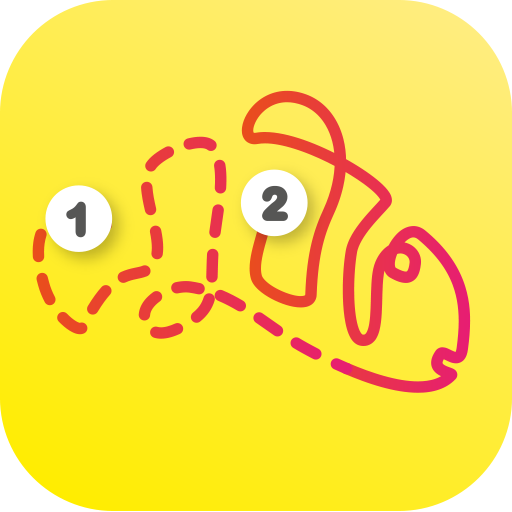
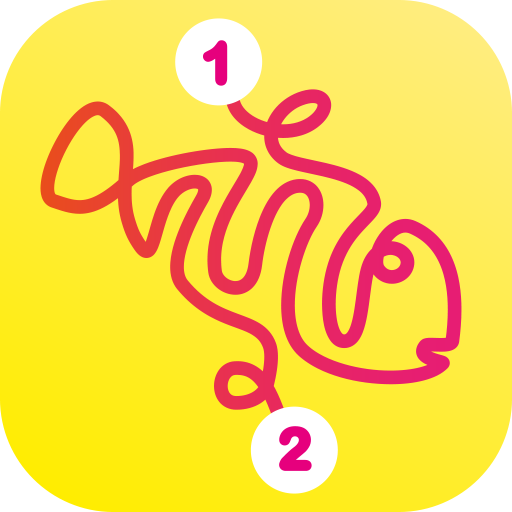
a

diff --git a/index.html b/index.html
@@ -60,30 +60,53 @@
 	<div id="settings"> 
 		<div class="logo">
 			<svg version="1.1" xmlns="http://www.w3.org/2000/svg" xmlns:xlink="http://www.w3.org/1999/xlink" x="0px" y="0px" width="203.5px"
-				 height="144.5px" viewBox="0 0 203.5 144.5" enable-background="new 0 0 203.5 144.5" xml:space="preserve">
-				<path fill="none" stroke="#E71D73" stroke-width="5" stroke-linecap="round" stroke-linejoin="round" d="M37.897,63.231c-1.075,0.956-2.772,0.963-4.791,0.487"/>
-				<path fill="none" stroke="#E71D73" stroke-width="5" stroke-linecap="round" stroke-linejoin="round" stroke-dasharray="9.8857,9.8857" d="
-							M23.852,60.266c-4.285-1.711-8.288-2.935-10.169-0.831c-7.546,8.437-6.221,18.862-3.274,29.667
-							c3.636,13.333,15.651,22.429,17.383,18.882c14.317-29.338,23.68-20.619,29.587-26.146c9.852-9.217-6.716-32.578,0.133-44.643
-							c3.501-6.167,22.867-14.428,27.271-8.712c7.659,9.942,1.146,31.12,0.181,46.812c-0.879,14.284,1.095,22.479-8.113,29.132
-							c-6.398,4.623-18.331,11-21.665,1c-2.867-8.601,11.384-16.256,19.861-14.993c20.591,3.067,32.417,16.892,50.157,26.734
-							c2.446,1.357,5.814,3.167,9.761,5.107"/>
-				<path fill="none" stroke="#E71D73" stroke-width="5" stroke-linecap="round" stroke-linejoin="round" d="M139.43,124.404
-							c1.475,0.681,3.002,1.363,4.568,2.034"/>
-				<path fill="none" stroke="#E71D73" stroke-width="5" stroke-linecap="round" stroke-linejoin="round" stroke-miterlimit="10" d="
-						M143.998,126.438c16.29,6.98,36.813,12.761,46.128,2.929c1.263-1.333-10.525-1.297-4.876-9.367c1.75-2.5,8.5,6.438,9.672-2.361
-						c2.274-17.081,1.789-33.871-17.878-50.204c-8.368-6.949-18.433,13.372-12.667,16.667c7,4,9.157,1.708,9.812-4.129
-						c0.771-6.88-10.275-11.411-15.274,0.354c-3.87,9.108,1.433,35.063-8.317,33.563c-6.701-1.031-6.72-26.539-4.553-39.122
-						c1.416-8.224,11.306-17.277,15-21.666c4.696-5.578-38.001-31.667-56.667-28.334c-10.364,1.851-0.303-24.927,21-17
-						c14.333,5.333,21.334,26,10.667,49.333c-3.806,8.324-7.151,17.659-7.818,36.659c-0.278,7.926-22.047-0.658-24.047-7.658
-						c-2.466-8.63,5.114-22.339,5.364-32.839"/>
-				<path fill="#FFFFFF" d="M126.679,51.859c0,7.832-6.352,14.186-14.188,14.186c-7.834,0-14.188-6.354-14.188-14.186
-						c0-7.838,6.354-14.189,14.188-14.189C120.327,37.669,126.679,44.021,126.679,51.859z"/>
-				<path fill="#FFFFFF" stroke="#FFFFFF" stroke-miterlimit="10" d="M12.158,58.825c0-7.833,6.354-14.186,14.189-14.186
-						c7.834,0,14.186,6.354,14.186,14.186c0,7.838-6.352,14.19-14.186,14.19C18.512,73.015,12.158,66.663,12.158,58.825z"/>
+				 height="216px" viewBox="0 0 203.5 216" enable-background="new 0 0 203.5 216" xml:space="preserve">
+				<linearGradient id="SVGID_1_" gradientUnits="userSpaceOnUse" x1="7.0869" y1="110.3096" x2="192.6055" y2="110.3096">
+					<stop  offset="0" style="stop-color:#E94E1B"/>
+					<stop  offset="0.0232" style="stop-color:#E94C1E"/>
+					<stop  offset="0.3097" style="stop-color:#E83843"/>
+					<stop  offset="0.5768" style="stop-color:#E7295D"/>
+					<stop  offset="0.8149" style="stop-color:#E7206D"/>
+					<stop  offset="1" style="stop-color:#E71D73"/>
+				</linearGradient>
+				<path fill="none" stroke="url(#SVGID_1_)" stroke-width="6" stroke-linecap="round" stroke-linejoin="round" stroke-miterlimit="10" d="
+					M113.842,182.958c-5.396-15.777-9.839-26.161-21.092-25.458c-8,0.5-8.729,15.333,0.646,15.333c7.148,0,12.429-3.504,13.604-8.333
+					c1.703-6.993,2.349-13.394,1.008-17.03c-4.917-13.333-22.397-7.303-38.351-26.674C62.5,112.104,73.03,91.997,78.25,83
+					c5.232-9.019-6.25-10.167-12.546-3.067c-9.137,10.303-8.021,33.548-14.781,23.615c-2.575-3.784-3.638-6.002-5.118-10.954
+					c-5.715-19.136,7.15-35.292-10.381-48.515c-11.25-8.485-33.137,36.265-22.5,39.765c10.013,3.295,16.25,6.25,32.881-9.037
+					c7.275-6.687,36.132-11.97,47.221-11.264c20.696,1.318-13.139,21.123-9.005,51.457c1.041,7.637,15.825,12.5,17.729-3.167
+					c1.628-13.398,7.583-34.666,19.794-34.646c7.512,0.013,9.263,9.674,4.783,16.275c-8.222,12.117-16.318,44.613-3.402,56.381
+					c15,13.666,52.186,15.332,61.5,5.5c0.792-0.836-12.685-1.747-7.685-7.747c1.128-1.354,11.441,1.154,11.878-2.13
+					c2.273-17.081,2.144-41.337-17.479-50.004c-9.949-4.395-18.82,12.876-15.202,18.444c3.869,5.955,12.215,3.458,12.869-2.379
+					c0.771-6.88-11.799-11.481-16.797,0.283c-3.871,9.108-2.085,35.282-11.835,33.782c-6.701-1.031-7.702-20.232-3.452-33.482
+					c5.616-17.508,18.395-21.872,17.416-27.524c-1.508-8.702-11.993-12.218-22.088-14.563c-7.759-1.804-15.286-2.916-18.328-5.162
+					c-10.187-7.519-3.475-21.754,7.75-25.999c11.286-4.269,14.286,3.731,5.952,10.065c-11.463,8.712-31.952,2.601-35.285-8.263"/>
+				<path fill="#FFFFFF" stroke="#FFFFFF" stroke-miterlimit="10" d="M66.96,22.546c0-10.295,8.353-18.647,18.652-18.647
+					c10.299,0,18.649,8.353,18.649,18.647c0,10.303-8.351,18.651-18.649,18.651C75.312,41.197,66.96,32.849,66.96,22.546z"/>
+				<path fill="#E6007E" stroke="#E6007E" stroke-width="2" stroke-miterlimit="10" d="M85.083,30.067v-10.91
+					c-2.031,1.559-3.397,2.338-4.101,2.338c-0.336,0-0.634-0.134-0.893-0.402c-0.26-0.268-0.39-0.577-0.39-0.929
+					c0-0.407,0.127-0.707,0.383-0.899c0.256-0.191,0.708-0.439,1.355-0.743c0.967-0.456,1.74-0.936,2.32-1.438
+					c0.58-0.504,1.093-1.067,1.541-1.69c0.448-0.624,0.739-1.008,0.875-1.151c0.136-0.144,0.392-0.216,0.767-0.216
+					c0.424,0,0.764,0.164,1.02,0.491c0.255,0.328,0.383,0.779,0.383,1.355V29.6c0,1.606-0.547,2.41-1.643,2.41
+					c-0.487,0-0.879-0.164-1.175-0.491C85.23,31.19,85.083,30.707,85.083,30.067z"/>
+				<path fill="#FFFFFF" stroke="#FFFFFF" stroke-miterlimit="10" d="M137.602,193.645c0,10.295-8.349,18.647-18.648,18.647
+					c-10.299,0-18.65-8.353-18.65-18.647c0-10.303,8.352-18.651,18.65-18.651C129.253,174.993,137.602,183.342,137.602,193.645z"/>
+				<path fill="#E6007E" stroke="#E6007E" stroke-width="2" stroke-miterlimit="10" d="M117.382,198.974h6.258
+					c0.624,0,1.1,0.128,1.427,0.383c0.328,0.256,0.492,0.604,0.492,1.044c0,0.392-0.13,0.723-0.39,0.995
+					c-0.26,0.271-0.653,0.407-1.182,0.407h-8.823c-0.6,0-1.068-0.166-1.403-0.498c-0.336-0.331-0.503-0.721-0.503-1.169
+					c0-0.287,0.107-0.669,0.323-1.145s0.451-0.85,0.707-1.121c1.063-1.103,2.022-2.048,2.878-2.836
+					c0.854-0.787,1.467-1.305,1.834-1.552c0.655-0.464,1.201-0.93,1.637-1.397s0.768-0.947,0.995-1.438s0.342-0.973,0.342-1.444
+					c0-0.512-0.122-0.97-0.366-1.373c-0.243-0.403-0.575-0.718-0.995-0.941c-0.419-0.224-0.877-0.336-1.372-0.336
+					c-1.048,0-1.871,0.46-2.47,1.379c-0.08,0.12-0.215,0.448-0.402,0.983s-0.399,0.947-0.636,1.235
+					c-0.235,0.287-0.581,0.431-1.037,0.431c-0.399,0-0.73-0.132-0.994-0.396s-0.396-0.623-0.396-1.079
+					c0-0.551,0.124-1.127,0.372-1.727c0.247-0.599,0.618-1.143,1.108-1.63c0.492-0.487,1.115-0.882,1.871-1.182
+					c0.755-0.299,1.641-0.449,2.655-0.449c1.224,0,2.267,0.191,3.13,0.575c0.56,0.256,1.051,0.607,1.475,1.056
+					c0.424,0.447,0.753,0.965,0.989,1.553c0.235,0.587,0.354,1.196,0.354,1.828c0,0.991-0.246,1.893-0.737,2.703
+					c-0.492,0.812-0.993,1.447-1.505,1.907c-0.512,0.459-1.369,1.181-2.571,2.164c-1.203,0.982-2.028,1.746-2.477,2.29
+					C117.777,198.41,117.581,198.67,117.382,198.974z"/>
 			</svg>
 		</div> 
-		<div class="logo-lite lite">
+		<!--<div class="logo-lite lite">
 			<svg version="1.1" id="Layer_1" xmlns="http://www.w3.org/2000/svg" xmlns:xlink="http://www.w3.org/1999/xlink" x="0px" y="0px"
 				 width="20.333px" height="10.167px" viewBox="0 0 20.333 10.167" enable-background="new 0 0 20.333 10.167" xml:space="preserve">
 			<g>
@@ -174,7 +197,7 @@
 					s-0.403,0.126-0.625,0.238c-0.222,0.112-0.456,0.262-0.703,0.449s-0.504,0.425-0.77,0.711L15.026,6.185z"/>
 			</g>
 			</svg>
-		</div>
+		</div>-->
 		<div class="v-center"> 
 			<div class="dottype row"> 
 				<div class="numbers noSelect selected"> 
